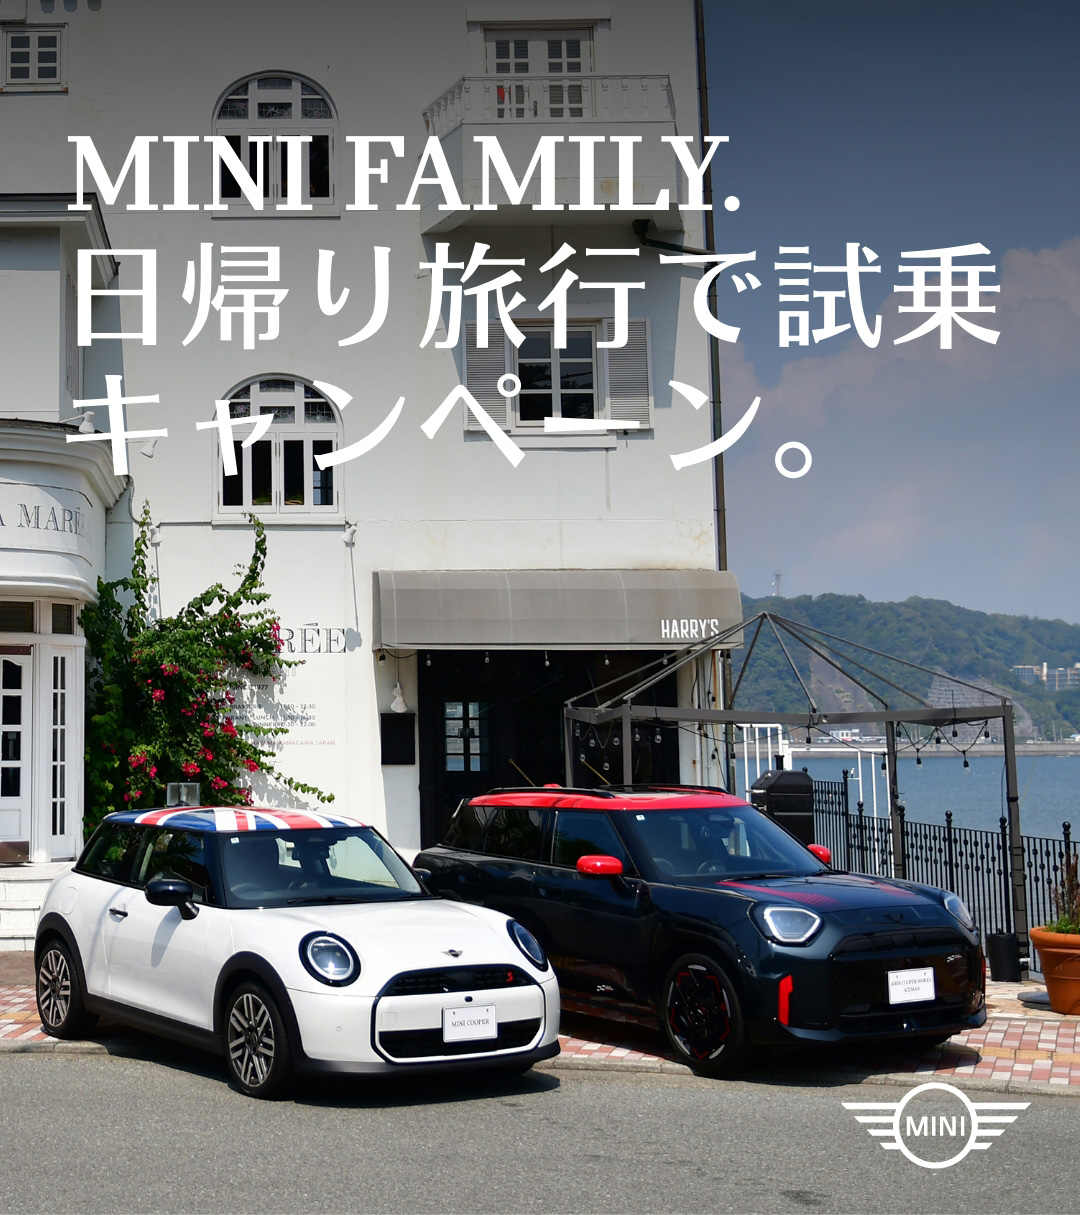
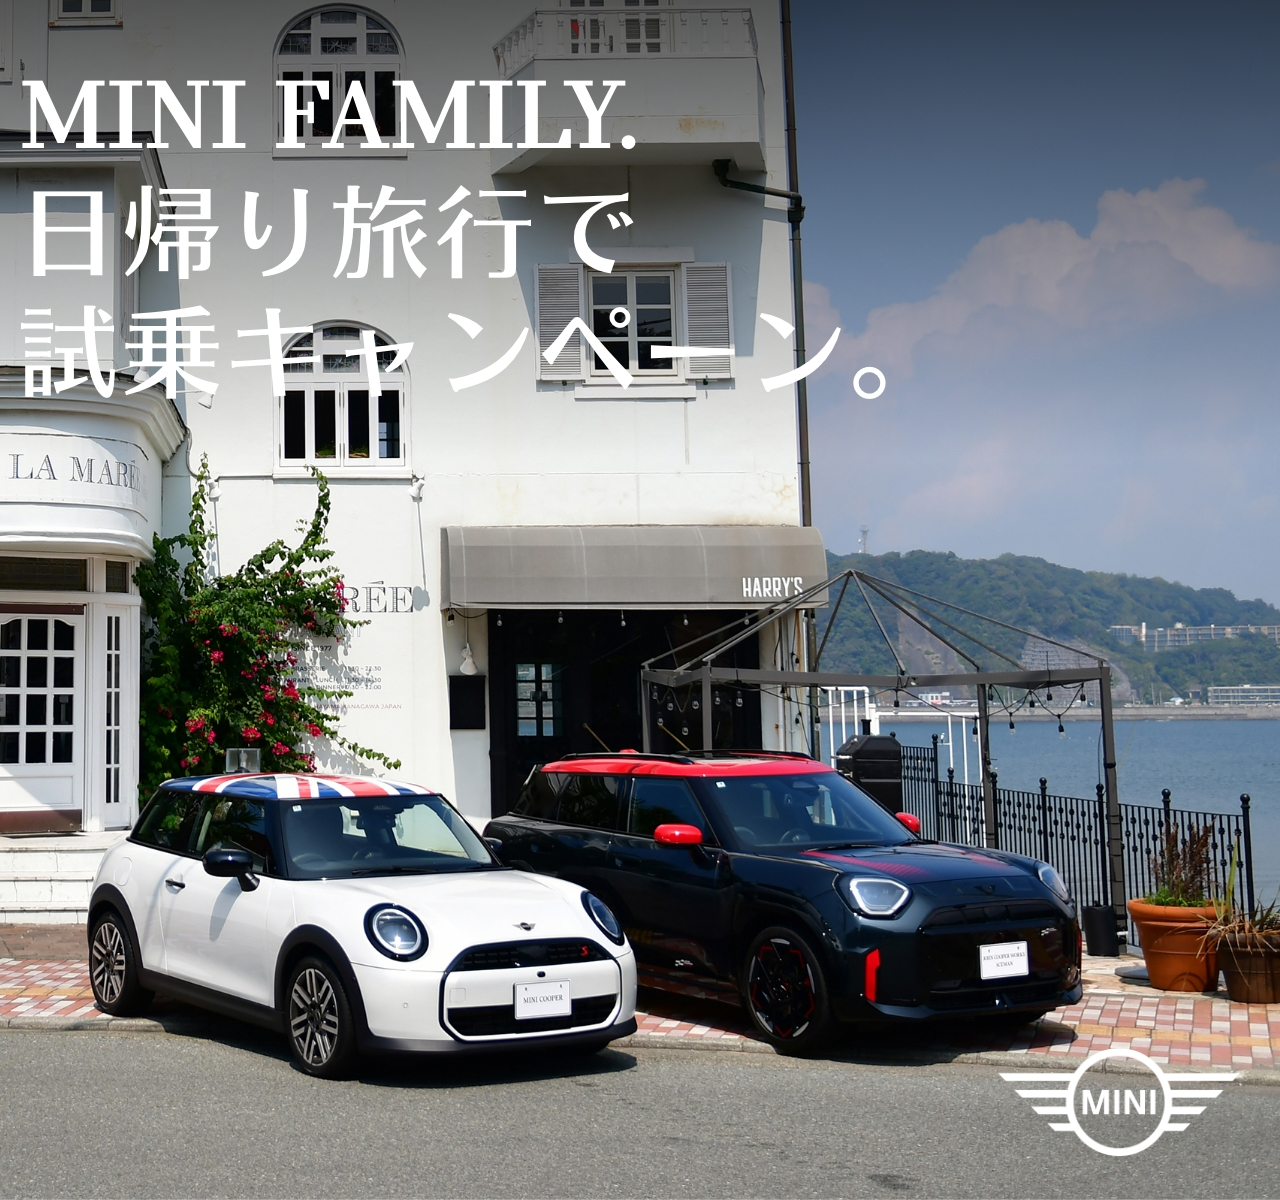
no message

diff --git a/251101MINI/static/css/style.css b/251101MINI/static/css/style.css
@@ -595,7 +595,7 @@ video {
   vertical-align: middle;
   width: 50%;
 }
-.country .box .btn{
+.country .box .btn-right{
   display: inline-block;
   width: 49%;
 }
@@ -1772,7 +1772,10 @@ video {
 /*    width: 94%;*/
     margin: auto;
 }
-    
+
+.intro {
+    margin-bottom: 50px;
+}
 .intro .fair{
   padding: 50px 0 10px;
 }
@@ -1785,9 +1788,7 @@ video {
   max-width: 80px;
 }
 .intro .fair .txt01{
-  max-width: 500px;
-  width: 94%;
-  margin: 0 auto 30px;
+  font-size: 28px;
 }
 .intro .txt02{
   font-size: 16px;
@@ -1882,7 +1883,11 @@ video {
   margin-top: -80px;
   margin-bottom: 80px;
 }
+    
 
+.campaign {
+  margin-bottom: 50px;
+}
 .campaign .tit {
   font-size: 30px;
   margin: 40px auto 20px;
@@ -1924,7 +1929,7 @@ video {
 .country .box .price{
   width: 100%;
 }
-.country .box .btn{
+.country .box .btn-right{
   width: 100%;
 }
 
@@ -1933,6 +1938,7 @@ video {
 }
 .racing .tit {
   font-size: 30px;
+  margin: 50px auto 20px;
 }
 .racing ul {
   display: block; 
@@ -1964,6 +1970,9 @@ video {
 
 .sec03 {
   margin: 0 auto 60px;
+}
+.sec03 .txt01{
+  font-size: 28px;
 }
 .sec03 .list{
   margin-bottom: 60px;
